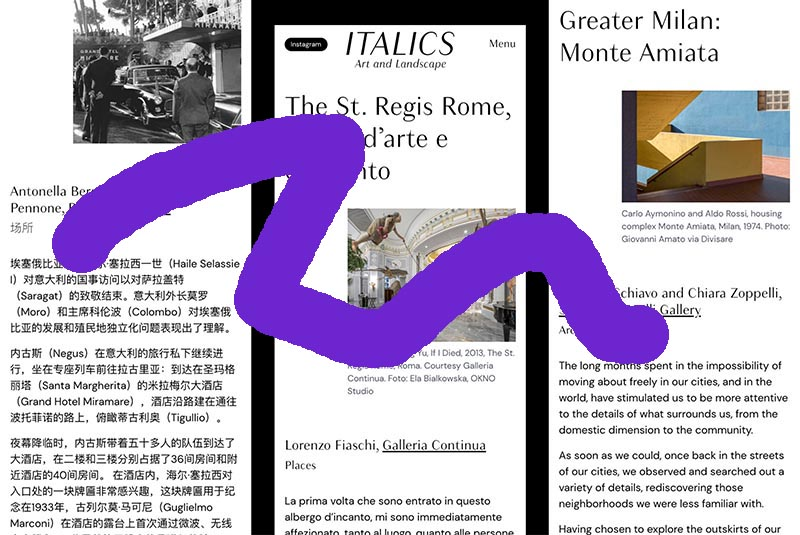
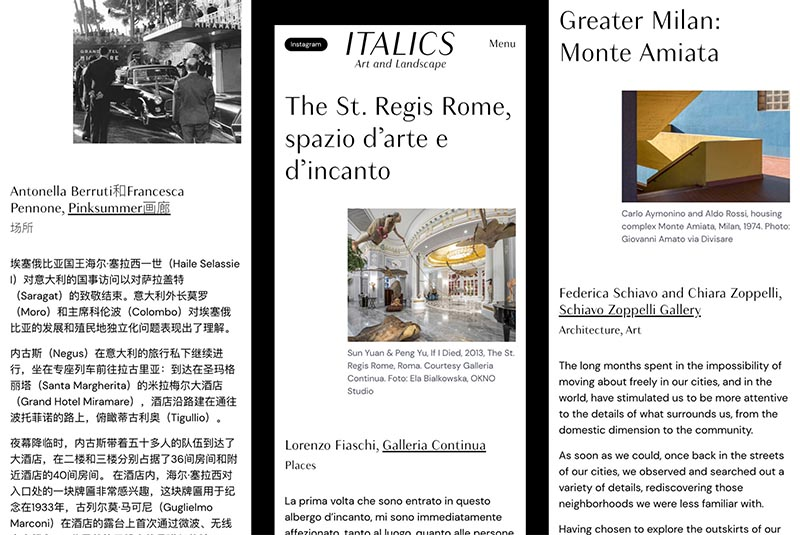
Home section height update + mob media query 900px

Changed region(s): [[0.0625, 0.2093, 0.8438, 0.6879]]

diff --git a/style.css b/style.css
@@ -41,7 +41,9 @@ body {
   min-height: 100vh;
   margin: 0;
   padding: 40px 40px 0 40px;
+  overflow: hidden;
   box-sizing: border-box;
+  position: relative;
 }
 .home-bg-container {
   width: 100%;
@@ -856,7 +858,7 @@ body .project-active #project-page .project-image:before, body .project-active #
 }
 
 /*stile solo desktop */
-@media only screen and (min-width: 767px) {
+@media only screen and (min-width: 899px) {
   .des-hidden {
     display: none !important;
   }
@@ -864,7 +866,7 @@ body .project-active #project-page .project-image:before, body .project-active #
 
 
 /*stile responsive*/
-@media only screen and (max-width: 768px) {
+@media only screen and (max-width: 900px) {
   .mob-hidden {
     display: none !important;
   }
@@ -885,7 +887,8 @@ body .project-active #project-page .project-image:before, body .project-active #
     height: 210%;
     position: absolute;
   }
-  .shape-bg-1 {
+  .shape-bg-1,
+   .shape-bgmb-1 {
     position: absolute;
     top: 0px;
     left: 0px;
@@ -897,7 +900,8 @@ body .project-active #project-page .project-image:before, body .project-active #
     mix-blend-mode: difference;
     transition: opacity 1s ease-out;
   }
-  .shape-bg-2 {
+  .shape-bg-2,
+  .shape-bgmb-2  {
     position: absolute;
     top: 0px;
     left: 0px;
@@ -908,7 +912,8 @@ body .project-active #project-page .project-image:before, body .project-active #
     pointer-events: none;
     transition: opacity 1s ease-out;
   }
-  .shape-bg-3 {
+  .shape-bg-3,
+  .shape-bgmb-3  {
     position: absolute;
     top: 0px;
     left: 0px;

diff --git a/animazione-background.js b/animazione-background.js
@@ -37,8 +37,8 @@ function animazioneSfondo () {
   //var heightLimite = $('.bg-animation').outerHeight();
 
   //disattivo un sec
-  //section.style.height = heightLimite;
-  //section.style.width = widthLimite;
+  section.style.height = heightLimite;
+  section.style.width = widthLimite;
 
   // Logo moving velocity Variables
   //posizioni iniziali
